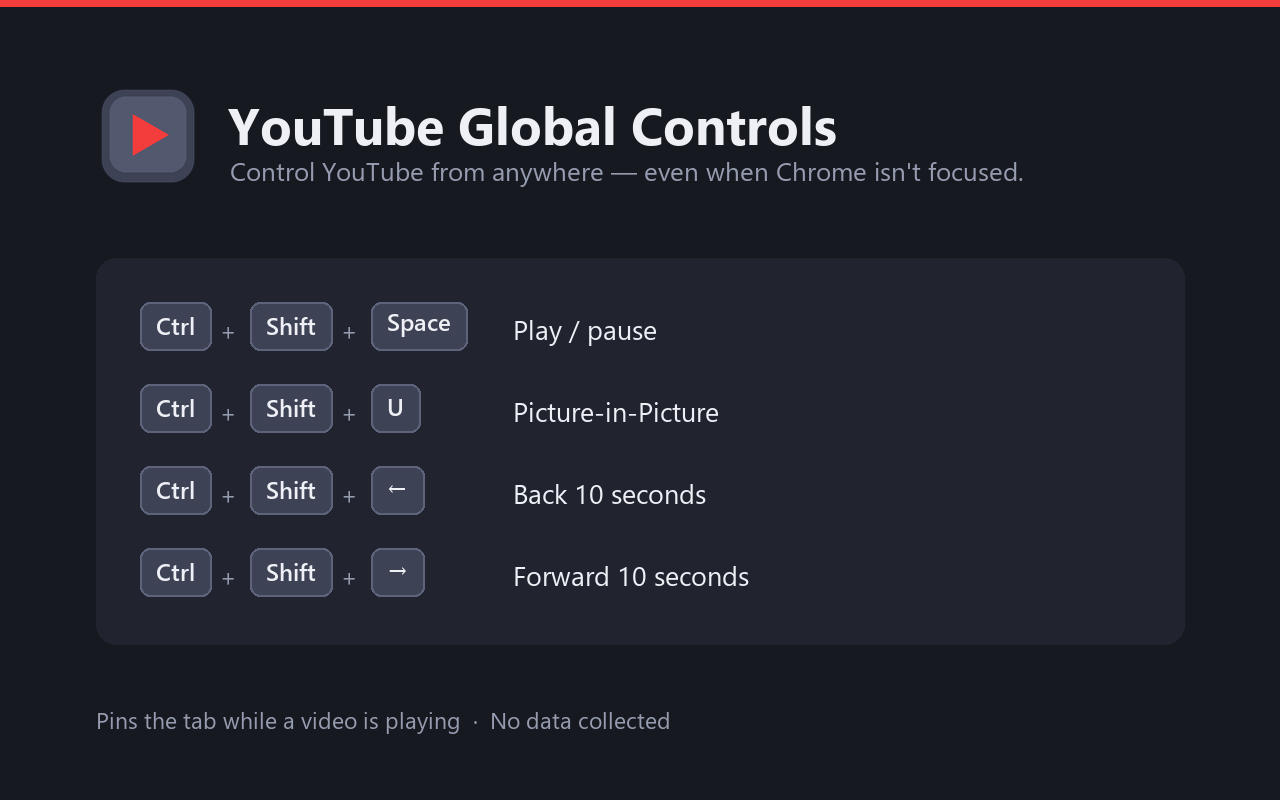
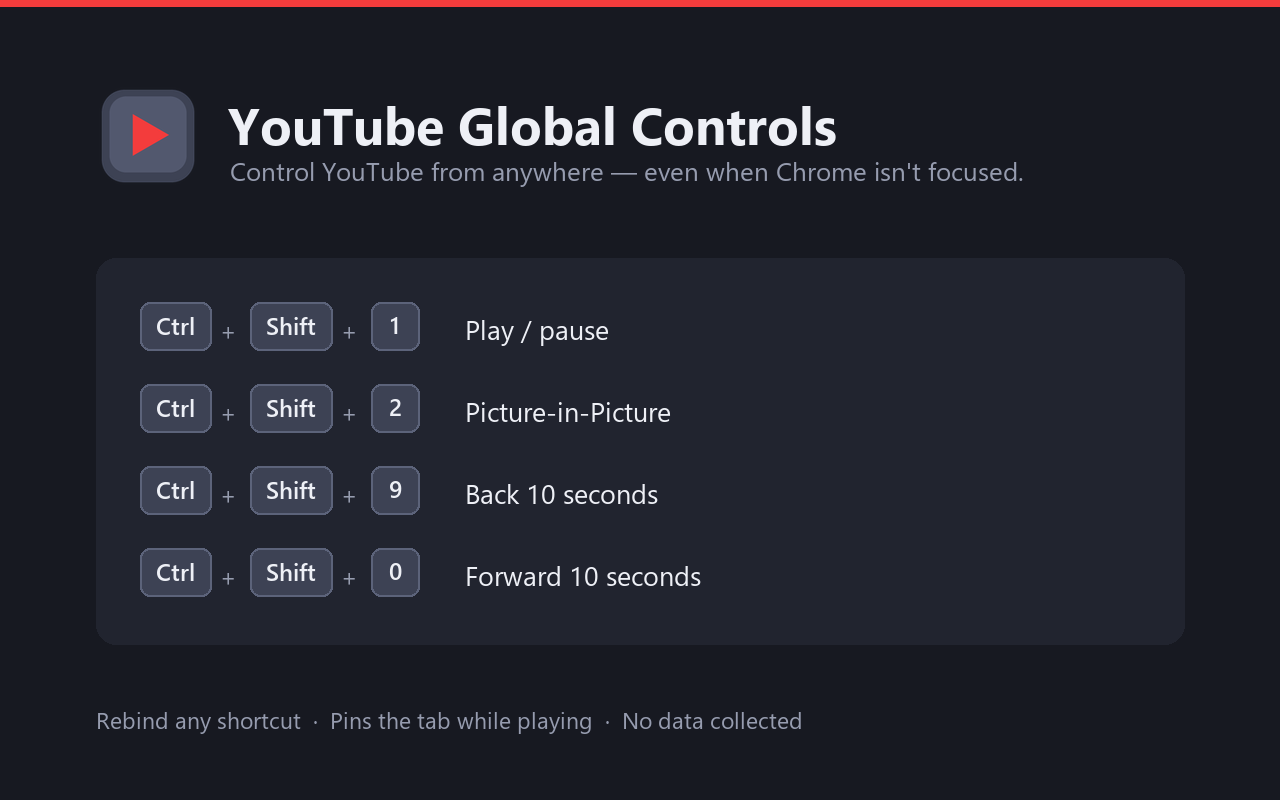
fix: use Ctrl+Shift+[digit] defaults so global shortcuts actually bind
Chrome limits suggested_key for commands marked "global": true to
Ctrl+Shift+[0..9]. The previous defaults (Space, U, Left, Right) are not
digits, so Chrome silently dropped all four suggestions and every command
installed showing "Not set" in chrome://extensions/shortcuts.

Rebind to Ctrl+Shift+1 (play/pause), 2 (Picture-in-Picture), 9 (back 10s) and
0 (forward 10s). 9 and 0 sit adjacent, mirroring back/forward. The Mac
suggestions avoid Command+Shift+3/4/5/6, which macOS reserves for screenshots.

The restriction applies only to the defaults shipped in the manifest; users can
still rebind to any combination and keep it scoped to Global. Documented in the
README, since it is not obvious and cost a published version to discover.

Store screenshot regenerated to match, and it now advertises that shortcuts are
rebindable.

diff --git a/store-assets/build_store_assets.py b/store-assets/build_store_assets.py
@@ -66,10 +66,10 @@ def screenshot():
            font=font("segoeui.ttf", 26), fill=MUTED)
 
     rows = [
-        (["Ctrl", "Shift", "Space"], "Play / pause"),
-        (["Ctrl", "Shift", "U"], "Picture-in-Picture"),
-        (["Ctrl", "Shift", "\u2190"], "Back 10 seconds"),
-        (["Ctrl", "Shift", "\u2192"], "Forward 10 seconds"),
+        (["Ctrl", "Shift", "1"], "Play / pause"),
+        (["Ctrl", "Shift", "2"], "Picture-in-Picture"),
+        (["Ctrl", "Shift", "9"], "Back 10 seconds"),
+        (["Ctrl", "Shift", "0"], "Forward 10 seconds"),
     ]
 
     panel_y = 258
@@ -89,7 +89,8 @@ def screenshot():
         d.text((label_x, y + 8), label, font=lf, fill=TEXT)
         y += 82
 
-    d.text((96, 704), "Pins the tab while a video is playing  \u00b7  No data collected",
+    d.text((96, 704),
+           "Rebind any shortcut  \u00b7  Pins the tab while playing  \u00b7  No data collected",
            font=font("segoeui.ttf", 23), fill=MUTED)
     return img
 

diff --git a/README.md b/README.md
@@ -11,10 +11,16 @@ A lightweight Chrome extension that provides global keyboard shortcuts to contro
 - Works even when Chrome is minimized or you're on other tabs
 
 ⌨ **Keyboard Shortcuts**
-- `Ctrl+Shift+Space` (or `Cmd+Shift+Space` on Mac) - Toggle Play/Pause
-- `Ctrl+Shift+U` (or `Cmd+Shift+U` on Mac) - Toggle Picture-in-Picture
-- `Ctrl+Shift+Right` (or `Cmd+Shift+Right` on Mac) - Skip forward 10 seconds
-- `Ctrl+Shift+Left` (or `Cmd+Shift+Left` on Mac) - Skip backward 10 seconds
+- `Ctrl+Shift+1` (or `Cmd+Shift+1` on Mac) - Toggle Play/Pause
+- `Ctrl+Shift+2` (or `Cmd+Shift+2` on Mac) - Toggle Picture-in-Picture
+- `Ctrl+Shift+9` (or `Cmd+Shift+9` on Mac) - Skip backward 10 seconds
+- `Ctrl+Shift+0` (or `Cmd+Shift+0` on Mac) - Skip forward 10 seconds
+
+> **Why digits?** Chrome only accepts `Ctrl+Shift+[0-9]` as a *suggested* shortcut
+> for global commands — any other combination is silently dropped and the command
+> installs unbound. That restriction applies only to the defaults shipped in the
+> manifest: you can rebind these to any combination you like at
+> `chrome://extensions/shortcuts` and still keep them set to **Global**.
 
 🔔 **Smart Notifications**
 - Helpful notifications when YouTube isn't ready
@@ -63,8 +69,8 @@ A lightweight Chrome extension that provides global keyboard shortcuts to contro
    - Works even if the YouTube tab was never visited (e.g., restored tabs)
 
 3. **Smart Tab Management**
-   - Use `Ctrl+Shift+Space` to play/pause - tab automatically pins when playing, unpins when paused
-   - Use `Ctrl+Shift+U` for Picture-in-Picture without affecting tab pin status
+   - Use `Ctrl+Shift+1` to play/pause - tab automatically pins when playing, unpins when paused
+   - Use `Ctrl+Shift+2` for Picture-in-Picture without affecting tab pin status
    - Skip controls work normally without affecting pinning
 
 ### How It Works
